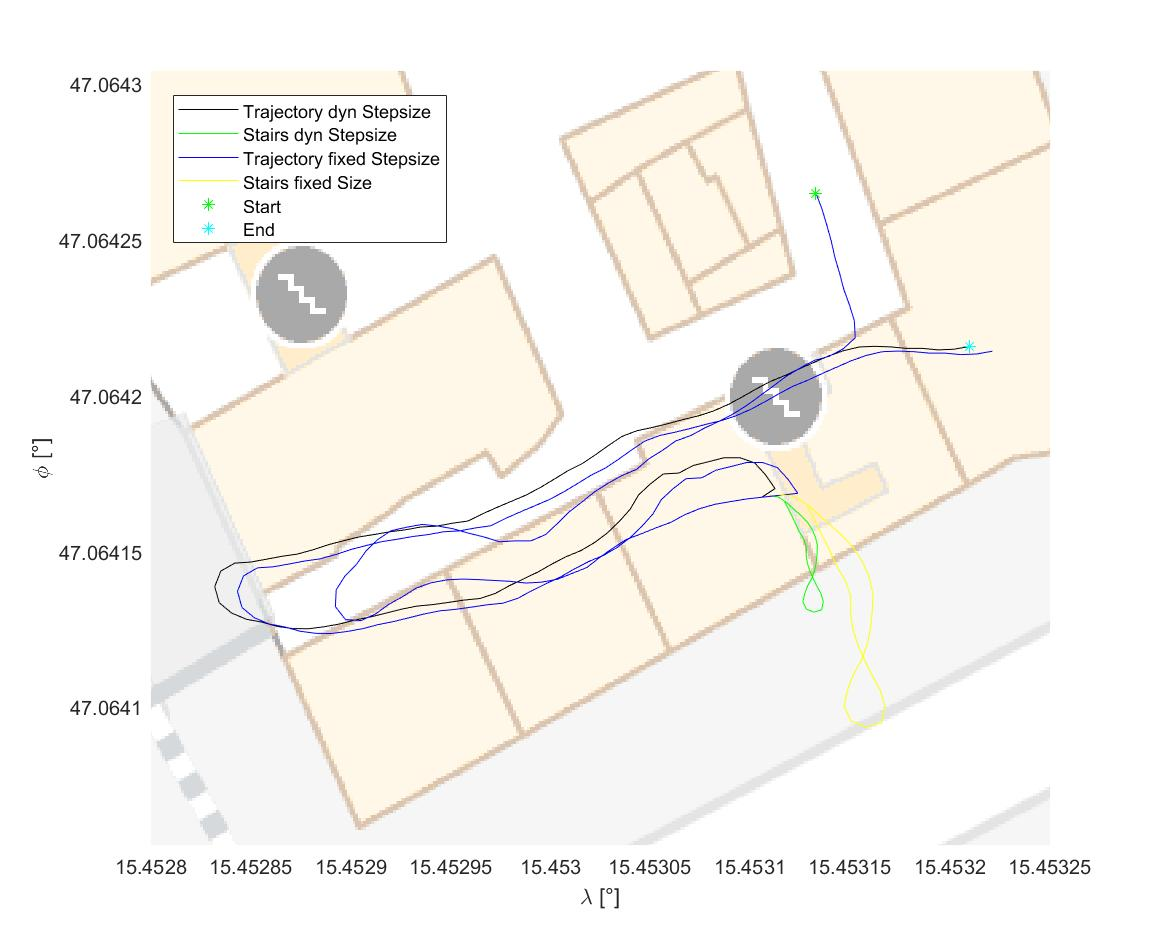
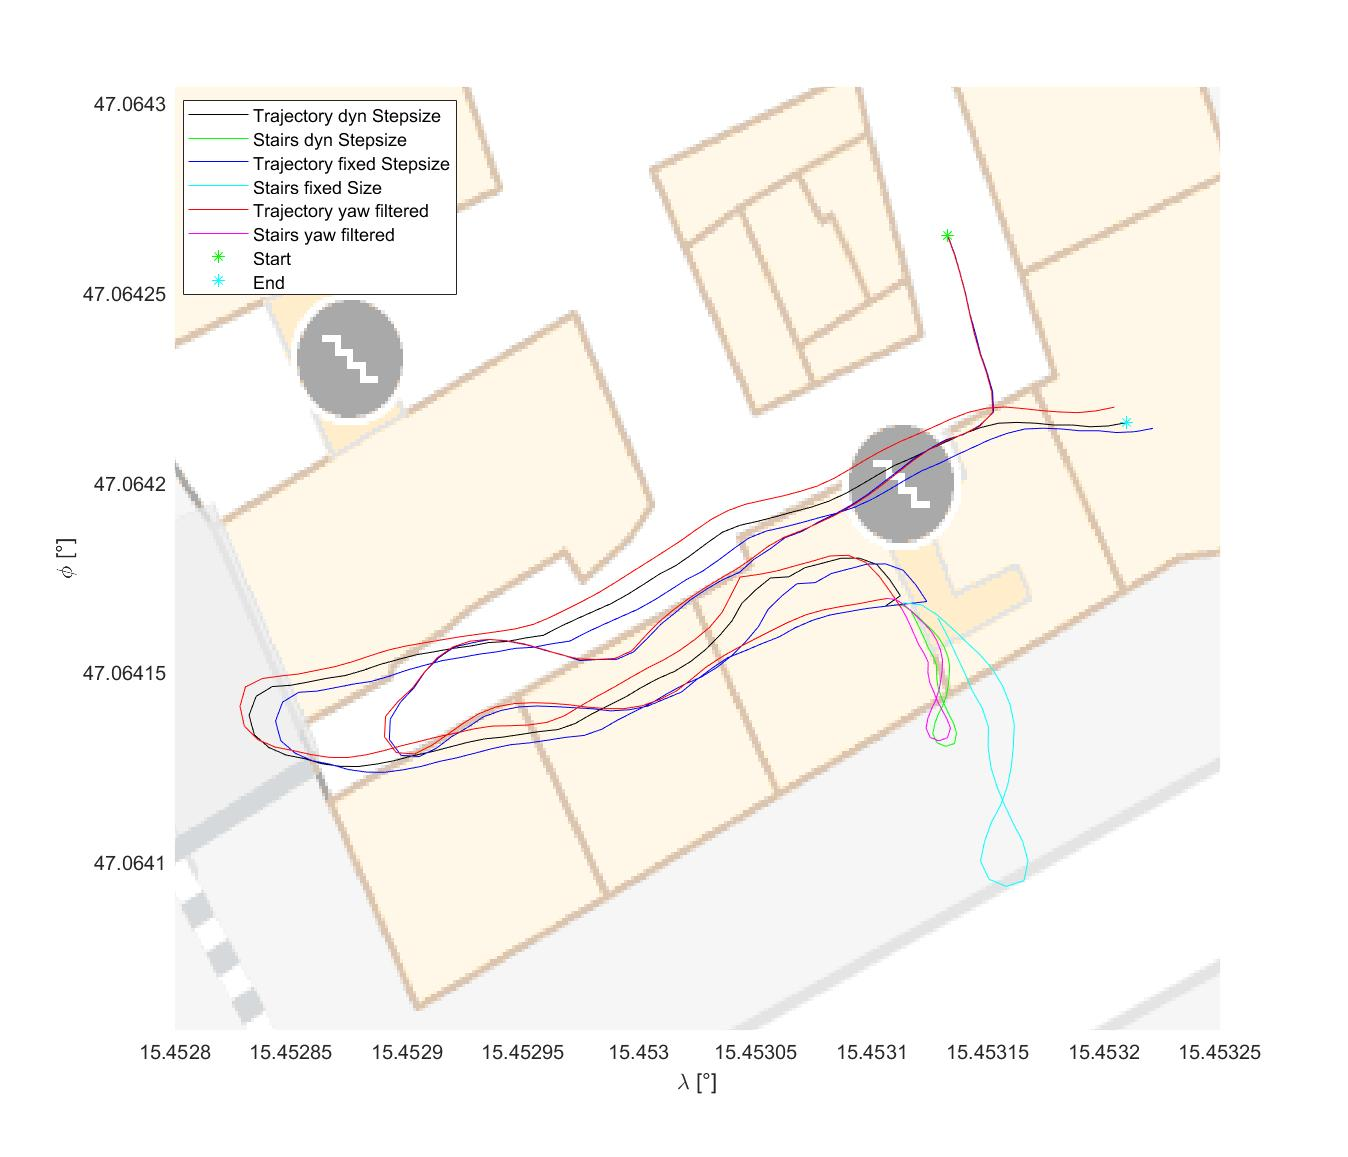
update plots for bericht

diff --git a/pdr_functions.py b/pdr_functions.py
@@ -6,6 +6,18 @@ from scipy import stats
 # Navigation Systems - 2nd Lab Pedestrian Navigation - WS18/19
 # function file
 
+def LinReg(x):
+    """
+    this is the function that is handed to the generic filter algo of numpy
+    it will move a window and calculate the regression parameters
+    :param x: input window of the time series
+    :return: slope of the calculated regression line
+    """
+    time = numpy.arange(1,len(x)+1,1)
+    slope, intercept, r_val, p_val, std_err = stats.linregress(time,x)
+
+    return slope
+
 
 def write_phi_lam_txt(input_phi, input_lam, input_step, input_textspecifier):
     """
